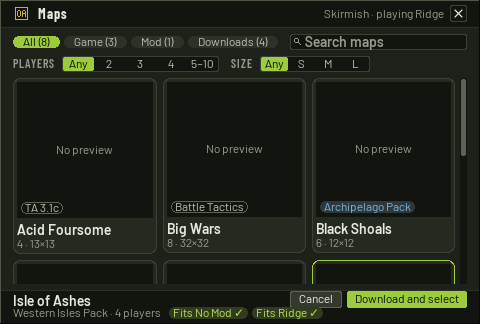
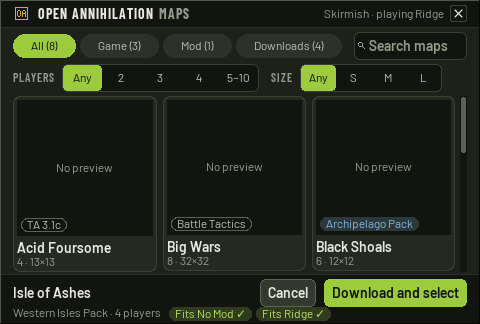
(docs) Show the map browser's new header, strips and footer
The maps page names the header as Settings reads its own, the strips
for Players and Size, and where Compact puts the title and the fit
chips; the three map browser pictures are drawn again.

diff --git a/docs/maps/README.md b/docs/maps/README.md
@@ -228,14 +228,16 @@ Interface size and Window size
 ([settings](../settings.md#user-interface)). It moves by its title, as
 Settings does, and opens where you left it:
 
-- **The header** says "Maps", where you came from and what you play:
-  "Skirmish · No Mod", "Battle room · playing Ridge". The **X** at the top
-  right closes the browser, as in the Library and Settings.
+- **The header** reads "OPEN ANNIHILATION MAPS", as Settings' and the
+  Library's headers read theirs, then where you came from and what you
+  play: "Skirmish · No Mod", "Battle room · playing Ridge". The **X** at
+  the top right closes the browser, as in the Library and Settings.
 - **Filters**, as counted pills: All, Game (the base game and every
   expansion that is on), Mod (maps from the mod's own layers) and Downloads
   (packs you have installed and packs a catalogue offers, together), each
   with its count, as in "All (324)". **PLAYERS** and **SIZE** are one
-  choice each, Any first, then 2, 3, 4 or 5–10, and S, M or L (S up to 10
+  choice each, a strip as Settings' choices are, Any first, then 2, 3, 4
+  or 5–10, and S, M or L (S up to 10
   on its longer side, M up to 20, L above). "Search maps" finds a map by
   its title, its name, its pack's name or where it comes from.
 - **The cards** are in order of their titles, a map online among the rest,
@@ -253,8 +255,9 @@ Settings does, and opens where you left it:
   fits, "Fits No Mod ✓", "Doesn't fit Ridge" with the reason, or, for a map
   online, "Fit with No Mod is checked when it's installed" or what the
   registry's catalogue says ("Its catalogue says it does not fit Ridge.").
-  At Compact the line under the title is only the pack, or that source
-  name, and the player count, and the fit chips sit on that line.
+  At Compact the title sits beside Cancel and Select, and the line under
+  them is only the pack, or that source name, and the player count, with
+  the fit chips on that line.
 - **Select**, for a map you have, chooses it in the list you came from,
   where you then press LOAD or start as ever. **Download and select**, for a
   map online, downloads its pack as the Library's GET does, shows how far it
